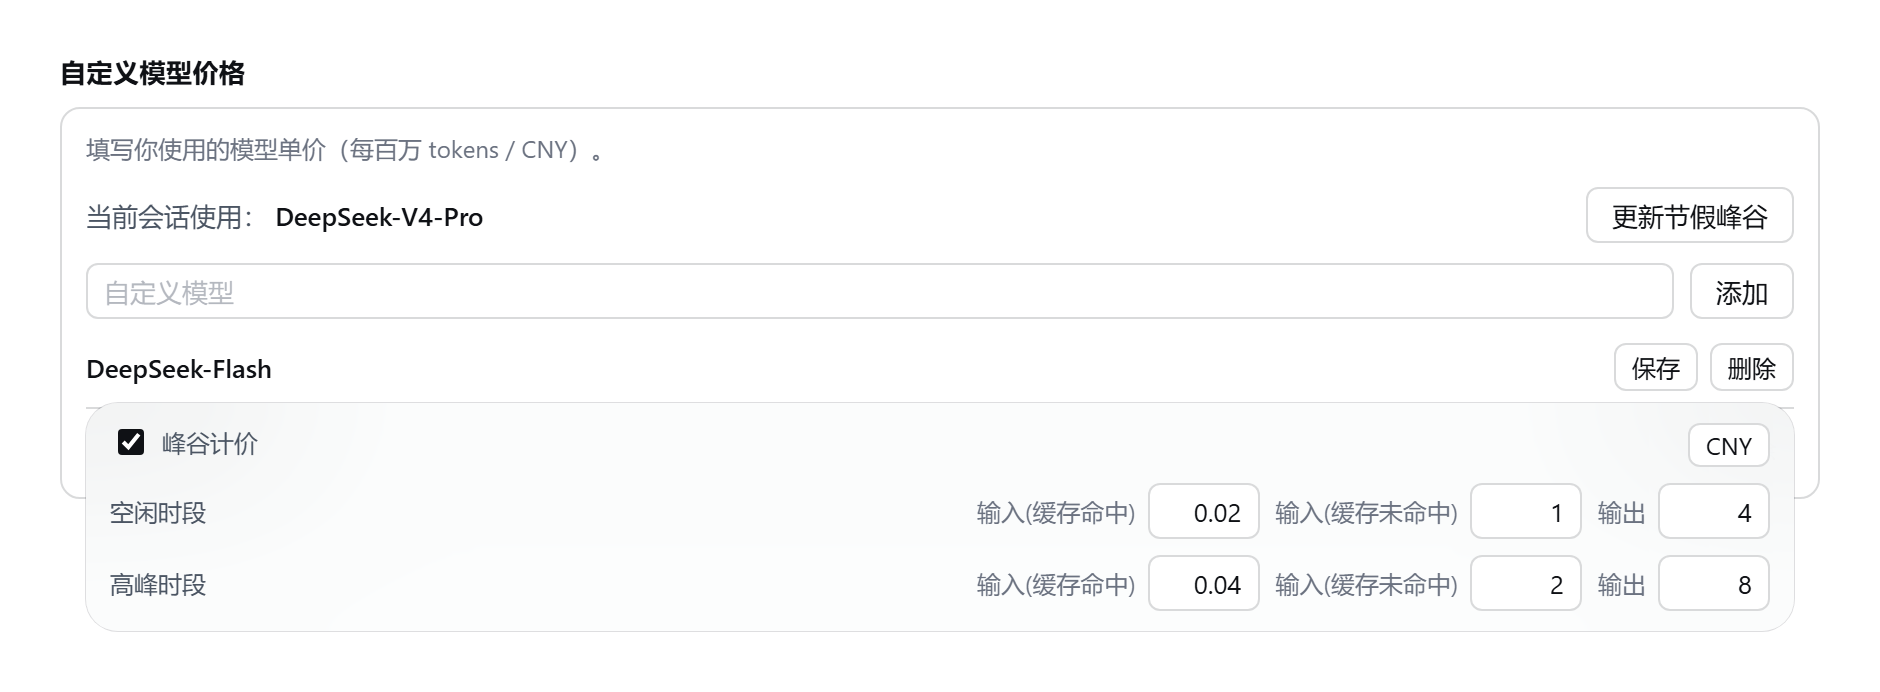
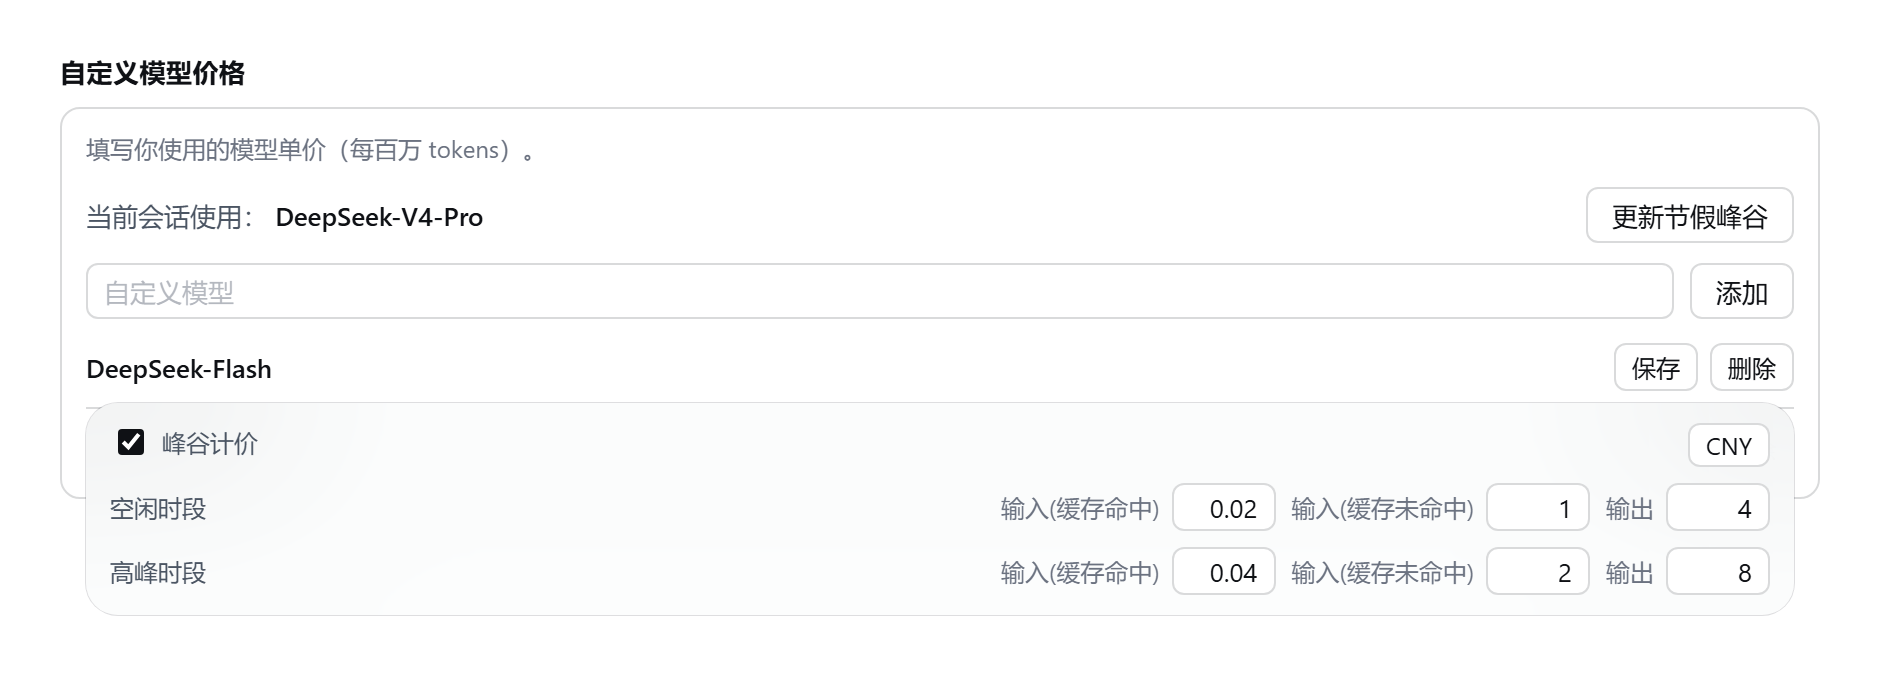
chore: ship tools in the npm package, fix README wording, regenerate stale screenshots
## tools/ now ships with the package

`tools` added to the files field. The development scripts (test,
sync-to-plugin, sync-from-plugin, plugin-dir, shot) are now available from both
a git clone and an npm install. `tests/` is still excluded, since `npm test`
needs the repository's tests directory - an npm-installed copy can only run
sync-* and shot.

## README wording corrected (I got it wrong last round)

It said "scripts under tools/ are local-only and are not published in the npm
package" - the second half was already false once files included them, and the
first half became plainly wrong this round. Two different things were conflated:
"not in the npm package" is not "only on this machine". Both READMEs now say
the scripts ship with the package, and note they are only used in development
and never loaded at runtime.

## Stale screenshots regenerated

docs/{settings,pricing}{,.en}.png still showed content from 10-05, including the
old hint "prices per million tokens / CNY" that no longer exists in the source.
Those images ship in the npm package, so they were externally visible and out of
date. Regenerated with tools/shot.cjs (headless Chrome, 2x DPR):

  settings.png / settings.en.png / pricing.png / pricing.en.png

Checked the output: the hint now reads "per million tokens", the price card is
expanded, there is no "fetch failed" and no undefined, and the footer shows
version 2.1.2.

docs/statusbar*.png were deliberately left alone - per shot.cjs's own note they
[…]

diff --git a/README.en.md b/README.en.md
@@ -123,8 +123,8 @@ npm test          # runs every verify*.js under tests/, then checks project vs i
 npm run sync      # copies lib/ into the installed plugin dir (run after editing, then restart DSH)
 ```
 
-Scripts under `tools/` are local-only and are **not published in the npm package**
-(the `files` field excludes them):
+Development scripts under `tools/` ship with the package (the `files` field includes them),
+so both a git clone and an npm install get them:
 
 | Script | Purpose |
 |---|---|
@@ -132,7 +132,11 @@ Scripts under `tools/` are local-only and are **not published in the npm package
 | `tools/sync-to-plugin.cjs` | project `lib/` → installed plugin dir |
 | `tools/sync-from-plugin.cjs` | installed plugin dir → project `lib/` |
 | `tools/plugin-dir.cjs` | locates the plugin dir (shared by the scripts above) |
-| `tools/shot.cjs` | regenerates the README screenshots |
+| `tools/shot.cjs` | regenerates the README screenshots (needs Chrome or Edge on the machine) |
+
+They are only used while developing; the plugin never loads them at runtime.
+`npm test` needs the repository's `tests/` directory, so an npm-installed copy can only run
+`sync-*` and `shot`.
 
 The plugin directory is located automatically: environment variable `DSH_STATUS_BAR_PLUGIN_DIR` →
 known layouts under `~/.dsh` (`local-plugins/`, each `profiles/*/node_modules/`) → derived from the
